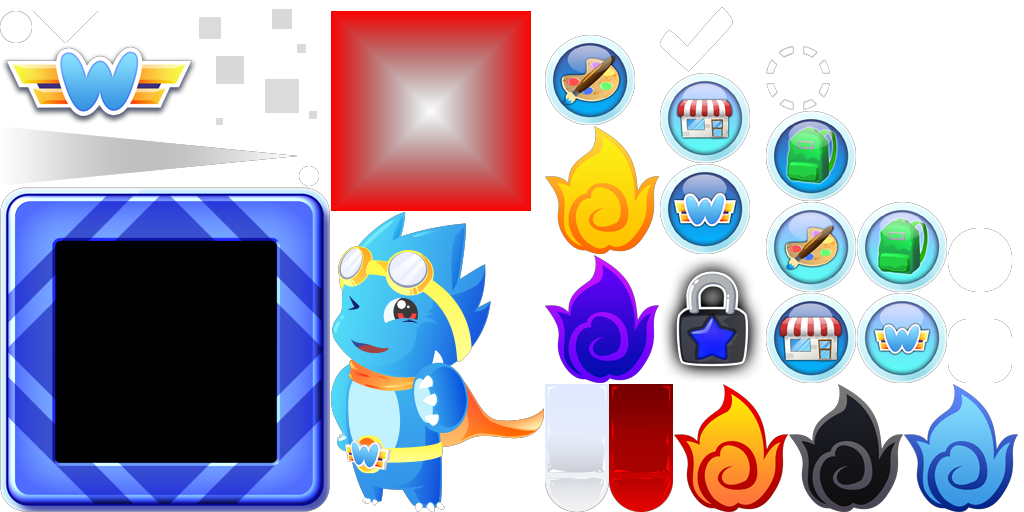
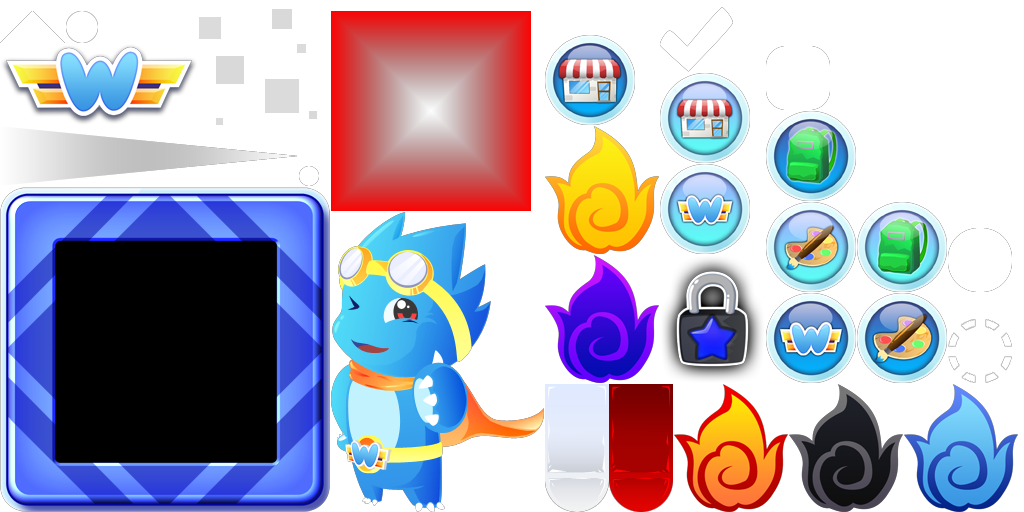
fixing pet speech. running into some problems with opening store from the speech bubble

diff --git a/MyZooPets/Assets/Scripts/Speech/PetSpeechAI.cs b/MyZooPets/Assets/Scripts/Speech/PetSpeechAI.cs
@@ -30,9 +30,9 @@ public class PetSpeechAI : MonoBehaviour{
     public void ShowHappyToSadMsg(object sender, EventArgs args){
         Hashtable msgOption = new Hashtable();
         msgOption.Add(PetSpeechController.Keys.MessageText, Localization.Localize("HAPPY_TO_SAD_0"));
-        msgOption.Add(PetSpeechController.Keys.ImageTextureName, "iconStore");
+        msgOption.Add(PetSpeechController.Keys.ImageTextureName, "shopButtonFood");
         msgOption.Add(PetSpeechController.Keys.ImageClickTarget, StoreUIManager.Instance.gameObject);
-        msgOption.Add(PetSpeechController.Keys.ImageClickFunctionName, "OpenUI");
+        msgOption.Add(PetSpeechController.Keys.ImageClickFunctionName, "OpenToSubCategoryFood");
         GetComponent<PetSpeechController>().Talk(msgOption);
     }
 
@@ -45,18 +45,18 @@ public class PetSpeechAI : MonoBehaviour{
     public void ShowSickToVerySickMsg(object sender, EventArgs args){
         Hashtable msgOption = new Hashtable();
         msgOption.Add(PetSpeechController.Keys.MessageText, Localization.Localize("SICK_TO_VERYSICK_0"));
-        msgOption.Add(PetSpeechController.Keys.ImageTextureName, "iconStore");
+        msgOption.Add(PetSpeechController.Keys.ImageTextureName, "shopButtonItems");
         msgOption.Add(PetSpeechController.Keys.ImageClickTarget, StoreUIManager.Instance.gameObject);
-        msgOption.Add(PetSpeechController.Keys.ImageClickFunctionName, "OpenUI");
+        msgOption.Add(PetSpeechController.Keys.ImageClickFunctionName, "OpenToSubCategoryItems");
         GetComponent<PetSpeechController>().Talk(msgOption);
     }
 
     public void ShowHealthyToVerySickMsg(object sender, EventArgs args){
         Hashtable msgOption = new Hashtable();
         msgOption.Add(PetSpeechController.Keys.MessageText, Localization.Localize("HEALTHY_TO_VERYSICK_0"));
-        msgOption.Add(PetSpeechController.Keys.ImageTextureName, "iconStore");
+        msgOption.Add(PetSpeechController.Keys.ImageTextureName, "shopButtonItems");
         msgOption.Add(PetSpeechController.Keys.ImageClickTarget, StoreUIManager.Instance.gameObject);
-        msgOption.Add(PetSpeechController.Keys.ImageClickFunctionName, "OpenUI");
+        msgOption.Add(PetSpeechController.Keys.ImageClickFunctionName, "OpenToSubCategoryItems");
         GetComponent<PetSpeechController>().Talk(msgOption);
     }
 

diff --git a/MyZooPets/Assets/Scripts/View/StoreUIManager.cs b/MyZooPets/Assets/Scripts/View/StoreUIManager.cs
@@ -64,7 +64,28 @@ public class StoreUIManager : SingletonUI<StoreUIManager> {
 		storeBasePanel.GetComponent<TweenToggleDemux>().Show();
 		storeBgPanel.GetComponent<TweenToggleDemux>().Show();
 	}
+
+
 	
+	//---------------------------------------------------
+	// _CloseUI()
+	//---------------------------------------------------	
+	protected override void _CloseUI(){
+		//Show other UI object
+		NavigationUIManager.Instance.ShowPanel();		
+		storeBasePanel.GetComponent<TweenToggleDemux>().Hide();
+		storeBgPanel.GetComponent<TweenToggleDemux>().Hide();
+		storeSubPanel.GetComponent<TweenToggleDemux>().Hide();
+	}
+
+	public void OpenToSubCategoryFood(){
+		OpenToSubCategory("Food", true);
+	}
+
+	public void OpenToSubCategoryItems(){
+		OpenToSubCategory("Items", true);
+	}
+
 	//---------------------------------------------------
 	// OpenToSubCategory()
 	// Special function used to open the store UI 
@@ -79,17 +100,6 @@ public class StoreUIManager : SingletonUI<StoreUIManager> {
 		}	
 		
 		CreateSubCategoryItemsWithString( strCat, bShortcut );		
-	}
-	
-	//---------------------------------------------------
-	// _CloseUI()
-	//---------------------------------------------------	
-	protected override void _CloseUI(){
-		//Show other UI object
-		NavigationUIManager.Instance.ShowPanel();		
-		storeBasePanel.GetComponent<TweenToggleDemux>().Hide();
-		storeBgPanel.GetComponent<TweenToggleDemux>().Hide();
-		storeSubPanel.GetComponent<TweenToggleDemux>().Hide();
 	}
 
 	//---------------------------------------------------

diff --git a/MyZooPets/Assets/Scripts/Controller/PetMovement.cs b/MyZooPets/Assets/Scripts/Controller/PetMovement.cs
@@ -100,8 +100,9 @@ public class PetMovement : Singleton<PetMovement> {
 			return;
 		
         // if clicking is locked, ie. a GUI popup is being displayed, then don't move the pet
-        if(!ClickManager.Instance.CanRespondToTap( scriptAnim.gameObject, ClickLockExceptions.Moving ) || IsTouchingNGUI(gesture.Position) || scriptAnim.IsBusy()) return;
-		
+        if(!ClickManager.Instance.CanRespondToTap( scriptAnim.gameObject, ClickLockExceptions.Moving ) || 
+            IsTouchingNGUI(gesture.Position) || scriptAnim.IsBusy()) return;
+	   
 		AudioManager.Instance.PlayClip( strSoundMove );
 
         MovePet(Camera.main.ScreenPointToRay(gesture.Position));    
